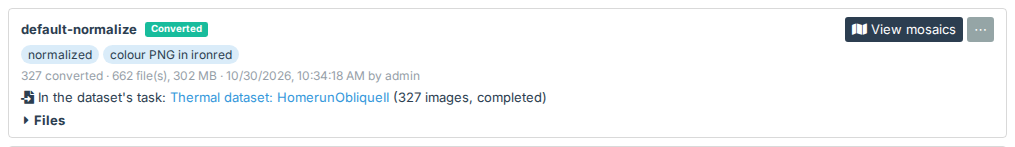
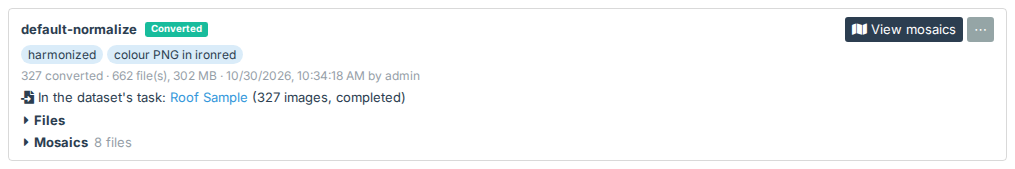
A workset's mosaics' files in a Mosaics section of their own below its Files
Closed at first and remembered in the browser apart from Files, with the file count, the files grouped by mosaic.

diff --git a/dji-thermal/public/conversions.js b/dji-thermal/public/conversions.js
@@ -557,18 +557,19 @@
             }).join("") + "</ul></span>";
     }
 
-    // The worksets whose Files are shown on a dataset's page, kept in the browser (none at first)
+    // The worksets whose Files, or Mosaics, are shown on a dataset's page, kept in the browser (none at first)
     var FILES_PREFIX = "dji-thermal-analyzer:files-shown:";
-    function shownFiles(storage, datasetId) {
+    var MOSAICS_PREFIX = "dji-thermal-analyzer:mosaics-shown:";
+    function shownFiles(storage, datasetId, prefix) {
         try {
-            var v = JSON.parse((storage && storage.getItem(FILES_PREFIX + datasetId)) || "[]");
+            var v = JSON.parse((storage && storage.getItem((prefix || FILES_PREFIX) + datasetId)) || "[]");
             return Array.isArray(v) ? v : [];
         } catch (e) { return []; }
     }
-    function keepShownFiles(storage, datasetId, ids) {
+    function keepShownFiles(storage, datasetId, ids, prefix) {
         try {
-            if (ids.length) storage.setItem(FILES_PREFIX + datasetId, JSON.stringify(ids));
-            else storage.removeItem(FILES_PREFIX + datasetId);
+            if (ids.length) storage.setItem((prefix || FILES_PREFIX) + datasetId, JSON.stringify(ids));
+            else storage.removeItem((prefix || FILES_PREFIX) + datasetId);
         } catch (e) { /* this page only */ }
     }
 
@@ -579,10 +580,34 @@
             '"></i> Files</button></div>';
     }
 
+    var MOSAIC_KINDS = {as_converted: "As converted", harmonized: "Harmonized"};
+
+    // A workset's Mosaics, below its Files: a toggle over the mosaics' files to download, by mosaic ("" before any is
+    // built)
+    function mosaicFilesHtml(c, base, shown) {
+        var files = c.mosaic_files || [];
+        if (!files.length) return "";
+        var kinds = [];
+        files.forEach(function (f) {
+            var kind = f.split("/")[0];
+            if (kinds.indexOf(kind) < 0) kinds.push(kind);
+        });
+        return '<div class="ta-conversion-files-head"><button type="button" class="ta-collapse" data-act="mosaic-files" aria-expanded="' + shown +
+            '" title="' + (shown ? "Hide the mosaics' files" : "Show the mosaics' files to download") + '"><i class="fa fa-caret-' + (shown ? "down" : "right") +
+            '"></i> Mosaics</button> <span class="text-muted">' + esc(core.count(files.length, "file", "files")) + "</span></div>" +
+            '<div class="ta-mosaic-files"' + (shown ? "" : " hidden") + ">" + kinds.map(function (kind) {
+                return "<div><strong>" + esc(MOSAIC_KINDS[kind] || kind) + ":</strong> " + files.filter(function (f) { return f.split("/")[0] === kind; }).map(function (f) {
+                    return '<a href="' + esc(base + c.id + "/download?mosaic=" + encodeURIComponent(f)) + '" title="' + esc(f) + '"><i class="fa fa-download"></i> ' +
+                        esc(f.slice(kind.length + 1)) + "</a>";
+                }).join(" ") + "</div>";
+            }).join("") + "</div>";
+    }
+
     // The dataset's conversions, newest first (base: their API's URL; open: the ids of those whose files are shown;
     // defaults: what their settings are compared against; menu: the conversion whose menu is open; viewerBase: their mosaics' pages, followed by their id;
-    // dashboard: WebODM's dashboard, where their tasks are; parent: the dataset's own task)
-    function listHtml(conversions, canChange, base, open, fresh, defaults, menu, viewerBase, dashboard, parent) {
+    // dashboard: WebODM's dashboard, where their tasks are; parent: the dataset's own task; mosaicsOpen: the ids of those
+    // whose mosaics' files are shown)
+    function listHtml(conversions, canChange, base, open, fresh, defaults, menu, viewerBase, dashboard, parent, mosaicsOpen) {
         if (!conversions.length) return '<p class="text-muted ta-none">No worksets yet' + (canChange ? ": choose the settings above (the WebODM plan's " +
             "are a good start), then Create Workset." : ".") + "</p>";
         open = open || [];
@@ -612,7 +637,8 @@
                 '<div class="ta-conversion-figures text-muted">' + esc(figures.join(" · ")) + "</div>" +
                 parentHtml(c, parent, dashboard) + tasksHtml(c, dashboard) + '<div class="ta-conversion-task" data-task="' + c.id + '"></div>' +
                 filesToggleHtml(c, open.indexOf(c.id) >= 0) +
-                '<div class="ta-conversion-files" data-files="' + c.id + '"' + (open.indexOf(c.id) >= 0 ? "" : " hidden") + "></div></div>";
+                '<div class="ta-conversion-files" data-files="' + c.id + '"' + (open.indexOf(c.id) >= 0 ? "" : " hidden") + "></div>" +
+                mosaicFilesHtml(c, base, (mosaicsOpen || []).indexOf(c.id) >= 0) + "</div>";
         }).join("");
     }
 
@@ -694,10 +720,6 @@
             }).join("") + "</tbody></table></div>";
         if (files.length > RESULTS_SHOWN) html += '<p class="text-muted">And ' + (files.length - RESULTS_SHOWN) + " more: download all to see them.</p>";
         html += '</div><aside class="ta-file-detail" hidden></aside></div>';
-        var mosaicFiles = c.mosaic_files || [];
-        if (mosaicFiles.length) html += '<p class="ta-mosaic-files"><strong>Mosaics:</strong> ' + mosaicFiles.map(function (f) {
-            return '<a href="' + esc(base + c.id + "/download?mosaic=" + encodeURIComponent(f)) + '">' + esc(f) + "</a>";
-        }).join(", ") + "</p>";
         return html;
     }
 
@@ -757,6 +779,7 @@
         var meta = null, settings = null, saved = false, dataset = null, built = false, loading = null;
         var storage = ctx.storage !== undefined ? ctx.storage : root.localStorage;
         var open = shownFiles(storage, ctx.datasetId);    // the worksets whose Files are shown, kept in the browser
+        var mosaicsOpen = shownFiles(storage, ctx.datasetId, MOSAICS_PREFIX);   // and whose Mosaics are
         var results = {}, sorts = {};                     // each one's files as loaded, and how its table is sorted
         var picks = {}, polls = {};                       // each one's images selected and under the mouse; its reload while measuring
         // The source frames' thumbnails and pictures, in the user's preferred DJI palette when they have one
@@ -836,7 +859,7 @@
             var el = taskPanel();
             if (el && task.info && el.querySelector('[name="task-name"]')) task.draft = readTaskForm(el, task.info).draft;
             root$("ta-conversions").innerHTML = listHtml(list, dataset && dataset.can_change, base, open, fresh,
-                dataset && dataset.defaults, menu, viewerBase, ctx.dashboard, dataset && dataset.parent);
+                dataset && dataset.defaults, menu, viewerBase, ctx.dashboard, dataset && dataset.parent, mosaicsOpen);
             open.forEach(function (id) { renderFiles(id); loadFiles(id); });
             renderTask();
         }
@@ -1278,6 +1301,10 @@
                 open = open.indexOf(id) >= 0 ? open.filter(function (x) { return x !== id; }) : open.concat([id]);
                 keepShownFiles(storage, ctx.datasetId, open);
                 renderList();
+            } else if (act === "mosaic-files") {
+                mosaicsOpen = mosaicsOpen.indexOf(id) >= 0 ? mosaicsOpen.filter(function (x) { return x !== id; }) : mosaicsOpen.concat([id]);
+                keepShownFiles(storage, ctx.datasetId, mosaicsOpen, MOSAICS_PREFIX);
+                renderList();
             } else if (act === "parent") {
                 useForParent(c);
             } else if (act === "use") {
@@ -1312,6 +1339,8 @@
                     if (!r.ok) return message(esc(core.errorText(r.data, "Could not delete the workset.")), "text-danger");
                     open = open.filter(function (x) { return x !== id; });
                     keepShownFiles(storage, ctx.datasetId, open);
+                    mosaicsOpen = mosaicsOpen.filter(function (x) { return x !== id; });
+                    keepShownFiles(storage, ctx.datasetId, mosaicsOpen, MOSAICS_PREFIX);
                     if (task && task.id === id) task = null;
                     return ctx.onChange();
                 });
@@ -1323,7 +1352,7 @@
 
     var api = {recorded: recorded, settingsIn: settingsIn, formHtml: formHtml, readForm: readForm, formProblem: formProblem, planSettings: planSettings, statusLabel: statusLabel,
                differences: differences, chipsHtml: chipsHtml, markForm: markForm, resetSetting: resetSetting,
-               mosaicHtml: mosaicHtml, mapUrl: mapUrl, actionsHtml: actionsHtml, listHtml: listHtml, parentHtml: parentHtml, taskStatusLabel: taskStatusLabel, tasksHtml: tasksHtml,
+               mosaicHtml: mosaicHtml, mapUrl: mapUrl, actionsHtml: actionsHtml, listHtml: listHtml, mosaicFilesHtml: mosaicFilesHtml, parentHtml: parentHtml, taskStatusLabel: taskStatusLabel, tasksHtml: tasksHtml,
                taskHtml: taskHtml, readTaskForm: readTaskForm, optionsFormHtml: optionsFormHtml, readOptions: readOptions, skipReasons: skipReasons, resultRows: resultRows, resultsHtml: resultsHtml,
                resultDetailRows: resultDetailRows, resultDetailHtml: resultDetailHtml, init: init};
     root.ThermalAnalyzerConversions = api;

diff --git a/dji-thermal/public/__tests__/analyzer.test.js b/dji-thermal/public/__tests__/analyzer.test.js
@@ -1624,7 +1624,8 @@ describe("a dataset's conversions", () => {
 
     it("lets a viewer download the conversions but not convert or delete them", async () => {
         const fetchFn = server({
-            [URL5]: Object.assign({}, DATASET, {analysis: ANALYSIS, can_change: false, can_delete: false, conversions: [CONVERSION]}),
+            [URL5]: Object.assign({}, DATASET, {analysis: ANALYSIS, can_change: false, can_delete: false,
+                                                conversions: [Object.assign({}, CONVERSION, {mosaic_files: ["harmonized/mosaic.tif"]})]}),
             "/api/plugins/dji-thermal/datasets/5/conversions/9": Object.assign({}, CONVERSION, {results: {files: [{path: "a_T.JPG", ok: true, outputs: ["a.tiff"], notes: []},
                 {path: "b_T.JPG", ok: true, outputs: ["b.tiff"], notes: []}]}})
         });
@@ -1675,6 +1676,14 @@ describe("a dataset's conversions", () => {
         click(toggle());
         expect(list.querySelector('[data-files="9"]').hidden).toBe(true);
         expect(window.localStorage.getItem("dji-thermal-analyzer:files-shown:5")).toBeNull();
+        // The mosaics' files: their own toggle, remembered apart from the Files'
+        const mosaics = () => list.querySelector('button[data-act="mosaic-files"]');
+        click(mosaics());
+        expect(list.querySelector(".ta-mosaic-files").hidden).toBe(false);
+        expect(JSON.parse(window.localStorage.getItem("dji-thermal-analyzer:mosaics-shown:5"))).toEqual([9]);
+        expect(window.localStorage.getItem("dji-thermal-analyzer:files-shown:5")).toBeNull();
+        click(mosaics());
+        expect(window.localStorage.getItem("dji-thermal-analyzer:mosaics-shown:5")).toBeNull();
     });
 
     it("sorts a workset's files by any column but the thumbnail, ascending or descending, the figures' headers aligned with them", () => {
@@ -1790,14 +1799,23 @@ describe("a conversion's mosaics on the dataset page", () => {
         expect(conversions.differences(read, DEFAULTS, null, "C").map(d => [d.key, d.text])).toEqual([["mosaics", "no mosaics"]]);
     });
 
-    it("lists the mosaic files with the conversion's files", () => {
-        const html = conversions.resultsHtml(Object.assign({}, CONVERSION, {
-            results: {files: [{path: "a_T.JPG", ok: true, outputs: ["a.tiff"], notes: []}]},
-            mosaic_files: ["harmonized/mosaic.tif", "harmonized/report.json"]}), C9.replace(/9$/, ""));
-        expect(html).toContain('href="' + C9 + '/download?mosaic=harmonized%2Fmosaic.tif"');
-        expect(html).toContain("harmonized/report.json");
-        expect(conversions.resultsHtml(Object.assign({}, CONVERSION, {results: {files: [{path: "a_T.JPG", ok: true, outputs: [], notes: []}]}}), "/x/"))
-            .not.toContain("Mosaics:");
+    it("lists the mosaics' files in a section of their own below the Files, by mosaic, collapsed at first", () => {
+        const c = Object.assign({}, CONVERSION, {results: {files: [{path: "a_T.JPG", ok: true, outputs: ["a.tiff"], notes: []}]},
+            mosaic_files: ["as_converted/mosaic.tif", "harmonized/mosaic.tif", "harmonized/report.json"]});
+        expect(conversions.resultsHtml(c, C9.replace(/9$/, ""))).not.toContain("mosaic.tif");
+        document.body.innerHTML = conversions.listHtml([c], true, C9.replace(/9$/, ""), [9], null, null, null, null, null, null, []);
+        const head = document.querySelector('button[data-act="mosaic-files"]');
+        expect(head.getAttribute("aria-expanded")).toBe("false");
+        expect(head.parentNode.textContent).toBe(" Mosaics 3 files");
+        expect(document.querySelector('[data-files="9"]').compareDocumentPosition(head) & Node.DOCUMENT_POSITION_FOLLOWING).toBeTruthy();
+        const files = document.querySelector(".ta-mosaic-files");
+        expect(files.hidden).toBe(true);
+        expect([...files.children].map(d => d.querySelector("strong").textContent)).toEqual(["As converted:", "Harmonized:"]);
+        expect(files.querySelector('a[title="harmonized/mosaic.tif"]').getAttribute("href")).toBe(C9 + "/download?mosaic=harmonized%2Fmosaic.tif");
+        expect(files.lastChild.textContent).toBe("Harmonized:  mosaic.tif  report.json");
+        document.body.innerHTML = conversions.listHtml([c], true, "/x/", [], null, null, null, null, null, null, [9]);
+        expect(document.querySelector(".ta-mosaic-files").hidden).toBe(false);
+        expect(conversions.listHtml([Object.assign({}, c, {mosaic_files: []})], true, "/x/", [])).not.toContain("mosaic-files");
     });
 });
 

diff --git a/dev/screenshots.js b/dev/screenshots.js
@@ -115,7 +115,7 @@ const SHOTS = {
         await files.locator(".ta-results tbody tr").nth(1).hover();
         await files.locator(".ta-file-detail-img").waitFor();
         // The table's first rows only, so the picture stays readable
-        await p.addStyleTag({content: ".ta-results tbody tr:nth-child(n+13){ display: none; } .ta-mosaic-files{ display: none; }"});
+        await p.addStyleTag({content: ".ta-results tbody tr:nth-child(n+13){ display: none; }"});
         await p.waitForTimeout(1500);
         return files;
     },

diff --git a/dji-thermal/public/analyzer.css b/dji-thermal/public/analyzer.css
@@ -232,7 +232,8 @@
 .ta-page .ta-figures-progress{ font-size: 12px; }
 
 .ta-page .ta-mosaic-status{ margin-top: 4px; font-size: 13px; }
-.ta-page .ta-mosaic-files{ font-size: 13px; }
+.ta-page .ta-mosaic-files{ margin: 4px 0 0 14px; font-size: 13px; }
+.ta-page .ta-mosaic-files a{ margin-right: 10px; white-space: nowrap; }
 
 .ta-viewer{ max-width: none; }
 .ta-viewer .ta-viewer-body{ display: flex; gap: 12px; align-items: stretch; }

diff --git a/upcoming-changes.md b/upcoming-changes.md
@@ -5,6 +5,13 @@
 **Up next**
 - **The user's testing and polishing** (2026-10-30): bugs and polish they report go here, each fixed on its own
   branch. Publishing 1.0.0 waits for it.
+  - Done: **a workset's Mosaics in a section of their own** (the user, 2026-11-02, from `new.md`: "On the Files view
+    in a workset, move the Mosaics download links out of the Files section into their own collapsible section below
+    Files."), `workset-mosaics-section`. A **Mosaics** toggle below Files, with the file count, shown once mosaics
+    are built, closed at first and remembered in the browser apart from Files (`MOSAICS_PREFIX`); the files grouped
+    by mosaic (As converted, Harmonized). `conversions.js` (`mosaicFilesHtml`), `analyzer.css`. README,
+    `quickstart-worksets.md`, `workset.png` retaken. Jest (the section, and its toggle remembered). Live (read only):
+    Roof Sample, opened and a mosaic's file downloaded.
   - Done: **building the mosaics again kept no saved measurements** (found 2026-11-02 while planning removing frames),
     `keep-measurements-on-rebuild`. `mosaics.remove`, run before each build and after a failed or canceled one,
     deleted the whole `viewer/` folder, with the measurements saved on the mosaics (`measurements.json`) and on the
@@ -25,12 +32,6 @@
     workset's summary line counting the removed frames ("217 converted · 3 removed"); **mosaics built before are
     kept, marked out of date** ("built with frames since removed", with Build again); **measurements saved on a
     removed frame are deleted with it**.
-  - Next: **a workset's Mosaics in a section of their own** (the user, 2026-11-02, from `new.md`): "On the Files view
-    in a workset, move the Mosaics download links out of the Files section into their own collapsible section below
-    Files." Now `resultsHtml` lists `mosaic_files` at the end of the Files section, seen only once Files is open.
-    Proposed: a **Mosaics** heading below Files, collapsed at first and remembered in the browser as Files is
-    (`FILES_PREFIX`), with the file count in the heading and shown only when the workset has mosaics. No open
-    decision.
   - Done: **a workset's Files table: its header in view, aligned and sortable** (the user, 2026-11-02, with a
     screenshot: "Make the Files table header row sticky ... Shade the background of the header row ... Align the
     column contents with the header row ... Each column should be sortable ascending/descending where sensible.

diff --git a/README.md b/README.md
@@ -168,6 +168,7 @@ closed. A chip marked **≠ plan** differs from the WebODM plan's settings (hove
 Each workset is kept beside the others, with what it changed from the defaults, its **Files** (a table, closed at
 first and remembered in your browser, of each image with its thumbnail, result, minimum and maximum temperature,
 emissivity, reflected temperature and distance as the workset measured it, and why any was skipped, sortable by each either way, its headings in view as it scrolls),
+its **Mosaics** below them once built (their files to download, by mosaic, closed at first and remembered too),
 **Download all** (a zip), and **Rename** and **Delete** in its menu. Beside the table, a detail pane shows the image
 under the mouse, or the one clicked: the frame at its own size, all it was measured with, and its downloads (the
 workset's files, its temperatures as CSV or a float TIFF, and Open frame). Ctrl/Cmd-click or Shift-click selects

diff --git a/docs/quickstart-worksets.md b/docs/quickstart-worksets.md
@@ -50,6 +50,9 @@ Each workset is listed with the settings it changed, how many images it converte
   first time its Files are opened, which takes a few seconds.
 
 ![A workset's Files, the detail pane on the image under the mouse](images/workset-files.png)
+- **Mosaics**, below Files once the workset's mosaics are built, lists their files to download: the mosaic as
+  converted and harmonized, each a temperature TIFF with its JSON report, a preview and, when the frames were projected
+  onto heights, those heights. It opens and closes as Files does, and **Download all**'s zip has them too.
 - The **⋯** menu has **Download all** (a zip), **Copy settings to form**, **Build mosaics**, **Create task** (once
   the workset is in a task), **Use for parent task**, **Rename** and **Delete**.
 
